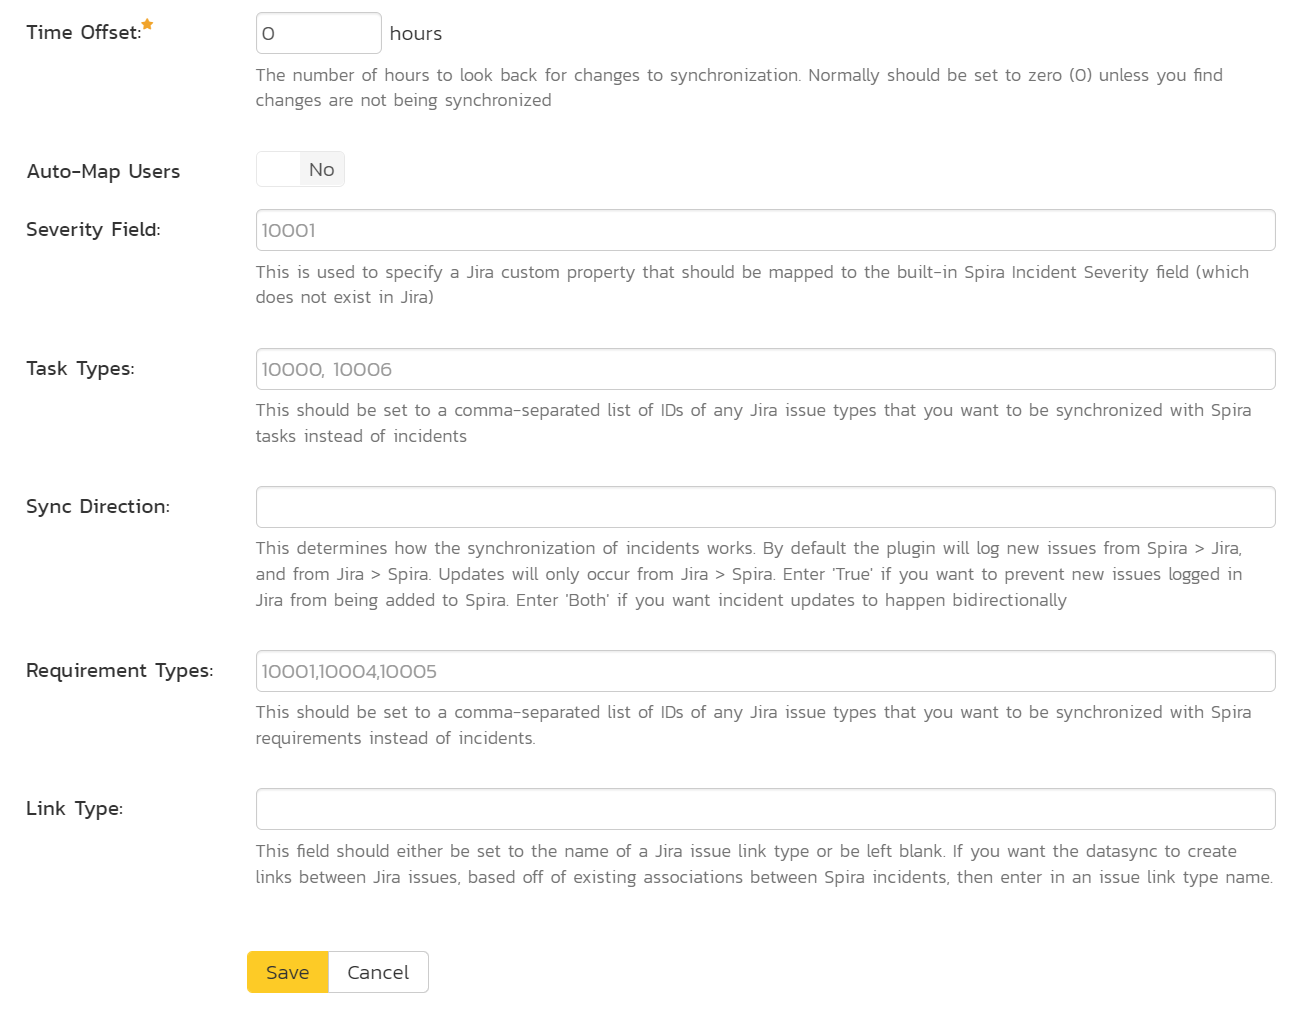
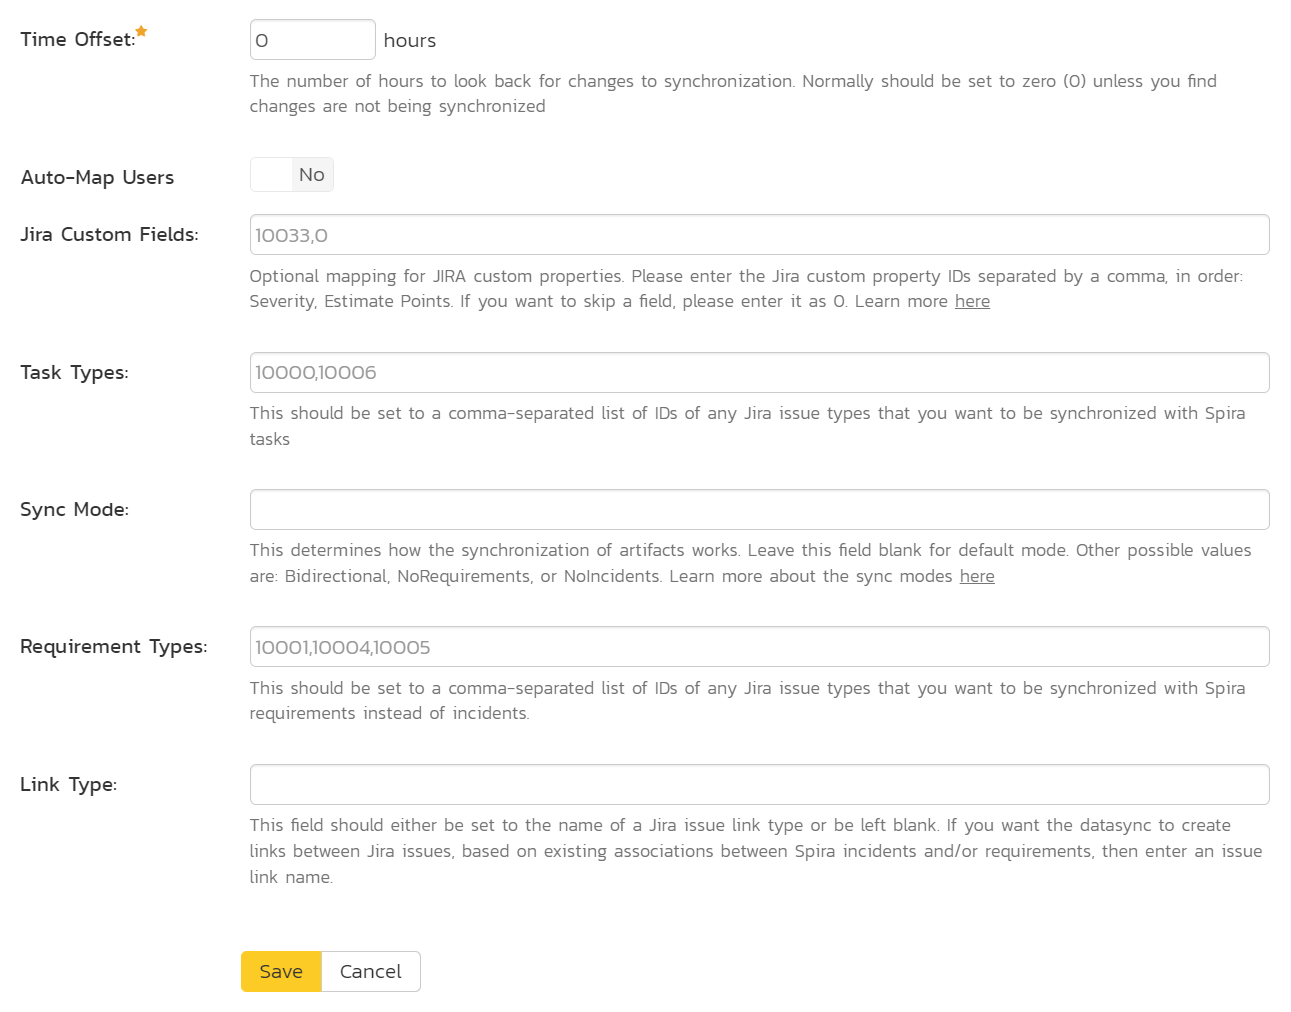
adds release notes and initial changes

diff --git a/docs/stylesheets/spira.css b/docs/stylesheets/spira.css
@@ -27,6 +27,9 @@
   /* Code block color shades */
   --md-code-bg-color:                  hsla(0, 0%, 92.5%, 0.5);
   --md-code-fg-color:                  hsla(200, 18%, 26%, 1);
+
+  /* Inflectra colors*/
+  --yolk:                              #fdcb26;
 }
 
 @media (prefers-color-scheme: dark) {
@@ -64,4 +67,13 @@
 .section-break {
   border-bottom: 2px solid var(--md-default-fg-color);
   padding: 2rem 0 .5rem 0;
+}
+
+.pill {
+  background-color: var(--yolk);
+  border-radius: 0.25rem;
+  font-size: 66%;
+  font-weight: bold;
+  padding: 0.125rem 0.5rem;
+  vertical-align: middle;
 }

diff --git a/docs/About/release-notes-v7.md b/docs/About/release-notes-v7.md
@@ -1,5 +1,76 @@
 # Release Notes for Spira v7
 
+## Version 7.10 (December 2023)
+
+!!! info "Summary"
+
+    - Brings new widgets to the program home page, letting you see meaningful information about capabilities and program milestones <span class="pill">SpiraPlan</span>
+    - Improves program level reporting with the ability to filter and sort standard reports, and show program-specific custom graphs on the program reporting page <span class="pill">SpiraPlan</span>
+    - Adds tagging support to a range of artifacts, including improvements to how you can see and work with tags on the document details page (tags are now supported on documents, requirements, releases, tasks, and incidents - more to come next year)
+    - Let users leverage the power of OpenAI in Spira with a new SpiraApp that auto-generates test cases, requirement steps, or tasks from a requirement
+
+??? success "New Features"
+    - As an incident user, I can add and remove tags to incidents easily from the details page and APIs, to more easily manage product incidents [RQ:4695]
+    - As a task user, I can add and remove tags to tasks easily from the details page and APIs, to more easily manage product tasks [RQ:4694]
+    - As a release user, I can add and remove tags to releases easily from the details page and APIs, to more easily manage product releases [RQ:4693]
+    - As a requirement user, I can add and remove tags to requirements easily from the details page and APIs, to more easily manage product requirements [RQ:4692]
+    - As a document user, I can add and remove tags to documents easily on the document details page, to more easily manage product documents [RQ:2590]
+    
+    * **As a program manager, I can view meaningful charts and summaries about program milestones and capabilities on the program home page, so I can quickly see the state of the program and spot problems**
+
+        - As a capability user, I can view [open vs closed capability and the priorities](../../Spira-User-Manual/Program-Homepage/#capability-open-count) of all open capabilities in an easy to read program home page widget, to help me review current work [RQ:4675]
+        - As a capability user, I can view a [summary of capabilities](../../Spira-User-Manual/Program-Homepage/#capability-summary) in a dedicated program home page widget, to help me review current work [RQ:4677]
+        - As a program milestone user, I can track the progress of [open program milestones](../../Spira-User-Manual/Program-Homepage/#program-milestone-capability-progress) in an easy to read program home page widget, to help me review current work [RQ:4676]
+        - As a program milestone user, I can see a chart of [progress and schedule for program milestones in](../../Spira-User-Manual/Program-Homepage/#program-milestone-completion) a program home page widget, to help me review current work [RQ:4678]
+    
+    * **As a program manager, I want to monitor the progress of program releases, using charts, live widgets, and offline reporting, so I can analyze trends and ensure the program is compliant with any reporting or audit standards**
+
+        - As a program manager, I can view program reporting page widgets by the whole program or by a specific program milestone, so I can better analyze relevant data [RQ:4679]
+        - As a program manager, I can view my program home page by the whole program or by a specific program milestone, so I can better analyze my program [RQ:4449]
+        - As a program report user, I can filter & sort custom program level reports by relevant fields, to better show me the data I need [RQ:4659]
+        - As a report admin, I can specify the workspace a custom graph should appear on the reporting page of, so users can see relevant graphs at the right time [RQ:4664]
+        - As a program report user, I can filter the capability summary report, to help me tailor the report to my needs [RQ:4660]
+        - As a program report user, I can filter the capability details report, to help me tailor the report to my needs [RQ:4661]
+        - As a program report user, I can filter and sort the program milestone summary report, to help me tailor the report to my needs [RQ:4662]
+        - As a program report user, I can filter and sort to include in the program milestone details report, to help me tailor the report to my needs [RQ:4663]
+
+    - Let users leverage the power of OpenAI in Spira with a new SpiraApp that auto-generates test cases, scenarios, or tasks from a requirement [RQ:4705]
+
+??? bug "Bug fixes and enhancements"
+    - Add more space between columns on the Report Edit page so that the Program Milestone report titles don't appear too close [IN:8496]
+    - Create temporary web.config.old and DataSyncService.exe.config files during upgrades using the installer to protect against corruption during upgrades [IN:8371]
+    - Do not automatically add "WHERE R.PROJECT_ID = ${projectId}" when adding queries for custom graphs for tables that do not have a PROJECT_ID column [IN:8534]
+    - Do not automatically add "WHERE R.PROJECT_ID = ${projectId}" when adding queries for custom reports for tables that do not have a PROJECT_ID column [IN:7704]
+    - Fix adding a task to a "Tested" requirement and then completing that task not rolling that requirement's completion up correctly to a parent release [IN:5805]
+    - Fix assigning requirements to child sprints not updating the requirement count of the parent release (without using data tools) [IN:6041]
+    - Fix potential database concurrency issues when upgrading from 5.4 to the latest version [IN:8610]
+    - Fix exporting a test case to a product not recording the exported test steps in the product history [IN:8848]
+    - Fix exporting a test case to a product using same template not exporting its test steps' or linked test steps' custom property values [IN:6286]
+    - Fix inconsistent authorization checks when an admin attempts to preview a custom report [IN:8824]
+    - Fix not always seeing an error message when trying to add a new child capability to an existing child [IN:8355]
+    - Fix product level custom reports with a ${ProjectGroupID} token to show data for the product's program [IN:8935]
+    - Fix projected effort for incidents not being calculated correctly - it should work the same as tasks currently does [IN:5806]
+    - Fix report administrators not being able to preview custom graphs on the report admin pages [IN:7645]
+    - Fix requirement completion from a cancelled release so that it does rollup to any parent release [IN:5760]
+    - Fix test coverage for releases getting out of sync in edge case scenarios when indenting, outdenting, or moving releases [IN:8004]
+    - Fix the default sort order for the 'IsAutoScheduled' column for test sets [IN:8939]
+    - Fix the parent requirement status not moving to "Tested" if all its children have a status of tested [IN:7315]
+    - Fix the report admin graph editing page from throwing an error when a user tries to display the data grid [IN:8646]
+    - Fix the workspace dropdown always showing loading if a user is not a member of any workspaces or on a system with no workspaces [IN:8018]
+    - Fix users not being able to show the "Last Updated" field on the program milestone list page [IN:8621]
+    - Fix users of SpiraTest or SpiraTeam seeing the program-level artifacts menu when viewing a program and never having viewed a product [IN:8644]
+    - Fix widgets a user added to their product reporting page from showing on the program reporting page [IN:8626]
+    - Fully localize the report configuration page's report element names [IN:8508]
+    - Improve performance of association tabs by removing duplicate SQL code from the relevant stored procedure [IN:8436]
+    - Improve the on premise installer to be more fault tolerant when creating the database [IN:8600]
+    - Improve the on premise installer to log out more information from SQL Server to aid in troubleshooting [IN:8612]
+    - Improve usability of the HTML report view by making the report spacing wider and easy to scroll horizontally [IN:8530]
+    - Prevent users from being able to paste a screenshot into rich text fields of program milestones and capabilities [IN:8618]
+    - Remove the tag cloud product home page widget and the document list page tag cloud sidebar graph [IN:8882]
+    - Update JiraDataSync explanation notes in Spira to match updates to the data sync [IN:8942]
+    - Update the field name from "ModifiedDate" to "Last Updated" on the capability list page [IN:8620]
+
+
 ## Version 7.9.0.1 (October 2023)
 
 !!! bug "Bug fixes"
@@ -264,7 +335,7 @@
         - As a task board user, I can change the way a task card looks, so I can see the most meaningful information at that moment [RQ:4411]
         - As a task board user, I can view more information about a task and, if I have permissions, edit the task right from the task board, so I can work more efficiently [RQ:4412]
 
-    * **Administration (SpiraPlan only)**
+    * **Administration <span class="pill">SpiraPlan</span>**
 
         - As an administrator, I want to see a [list of changes made in the system](../../Spira-Administration-Guide/System/#system-history-changes), to be able to audit and review products and schedules more easily. [RQ:4477]
         - As an administrator, I want to see details of a change made in the system, to allow for a more granular inspection of product or enterprise-level changes. [RQ:4478]
@@ -361,12 +432,12 @@
 
             - When organizing the planning board by priority, incident priority names are matched to requirement importance names [RQ:4379]
             - Incident cards can be displayed alongside requirement cards in certain views of the planning board [RQ:4380]
-            - Teams/Tracks Support in Boards (SpiraPlan only) [RQ:2316]
+            - Teams/Tracks Support in Boards <span class="pill">SpiraPlan</span> [RQ:2316]
 
     * **System Administration**
 
         - System admins [can enable or disable](../../Spira-Administration-Guide/System/#general-settings) beta functionality across the application for their users [RQ:4317]
-        - System admins can create and manage [a list of team names](../../Spira-Administration-Guide/System-Users/#view--edit-teams) (SpiraPlan only) [RQ:3689]
+        - System admins can create and manage [a list of team names](../../Spira-Administration-Guide/System-Users/#view--edit-teams) <span class="pill">SpiraPlan</span> [RQ:3689]
         - Product admins can [associate product users to specific teams](../../Spira-Administration-Guide/Product-Users/#team-membership) [RQ:3690]
 
 
@@ -407,7 +478,7 @@
 ## Version 7.2 (October 2022)
 
 !!! info "Summary"
-    Manage products in a whole new way (SpiraPlan only). New system level custom properties and custom lists let program users see and manage your products with custom data and through new dedicated pages and custom report options. You can use these new features for improved Project Portfolio Management, to implement product charts, and much more.
+    Manage products in a whole new way. New system level custom properties and custom lists let program users see and manage your products with custom data and through new dedicated pages and custom report options. You can use these new features for improved Project Portfolio Management, to implement product charts, and much more. <span class="pill">SpiraPlan</span>
 
     Along with existing support for creating and editing dynamic documents inside Spira (including diagrams and documents), the new spreadsheet editor lets you create simple spreadsheets to better organize your teams and track work. You can have multiple sheets, apply formatting to cells, use a wide number of functions, and even import from and export to Excel spreadsheets.
 

diff --git a/docs/Spira-User-Manual/Program-Homepage.md b/docs/Spira-User-Manual/Program-Homepage.md
@@ -4,7 +4,9 @@ When you navigate to a Program from the global navigation bar or from any link t
 
 ![](img/UserProduct_Management_75.png)
 
-This page summarizes all of the information about the program in a "one-stop-shop". The Program Homepage has 3 versions you can quickly switch between. While each of these can be customized as you want, by default they are designed to help different types of user: managers, testers, and developers.
+This page summarizes all of the information about the program in a "one-stop-shop". The Program Homepage has 3 versions you can quickly switch between. While each of these can be customized as you want, by default they are designed to help different types of user: general users, those using capabilities, and QA.
+
+<span class="pill">SpiraPlan</span> You can choose to filter relevant widgets by any open program milestone, or to view widgets by the whole program, by using the "Displaying" dropdown at the top of the page to choose either "All Program Milestones" or a specific open program milestone.
 
 You will see a small "i" in a circle at the top right of each widget. Hovering or clicking on this will show you information about that chart.
 
@@ -24,7 +26,7 @@ Together, these editing options let you change the page to suit your needs. If y
 !!! info "Please note"
     Any changes you make to this page (e.g. editing, moving, closing widgets) will only affect your user and on this particular home page. They do not affect any other user.
 
-By default, the program home page shows the "General" view. The following table shows which widgets are displayed on the different views of the 'Product Home':
+By default, the program home page shows the "General" view. The following table shows which widgets are displayed on the different views of the 'Program Home':
 
 | Widget Name                           | General | Capabilities | Quality |
 | ------------------------------------- | ------- | ------------ | ------- |
@@ -34,6 +36,7 @@ By default, the program home page shows the "General" view. The following table 
 | Product List                          | Y       | Y            | Y       |
 | Products: Completion                  | Y       |              |         |
 | Products: Relative Size               | Y       |              |         |
+| Products: Test Summary                |         |              | Y       |
 | Program Overview                      | Y       | Y            | Y       |
 | Program Milestone Capability Progress |         | Y            |         |
 | Program Milestone Completion          |         | Y            |         |
@@ -166,3 +169,24 @@ This table shows an information-dense, but easy to understand assessment of each
 - the number of tests executed (test runs)
 - the proportion of tests that have passed, failed, blocked, caution or not run
 - the number of open incidents and the priority distribution of them
+
+## Capability Open Count 
+<span class="pill">SpiraPlan</span> This chart shows the proportion of capabilities which are open, as well as the breakdown of all open capabilities in the program by priority. The bar chart's bars are colored to match the configured color of each priority. (Works with the program milestone filter at the top of the page).
+
+
+## Capability Summary
+<span class="pill">SpiraPlan</span> This widget shows a table of capabilities split by their status (on the y axis) and their priority (on the x axis). It provides a count of capabilities with each status/priority combination (for instance, how many capabilities are high priority with a status of to do). Clicking on any of the counts for a given status/priority will open the capability list page filtered to that combination of status and priority. (Works with the program milestone filter at the top of the page).
+
+## Program Milestone Capability Progress
+<span class="pill">SpiraPlan</span> This widget shows a list of all open program milestones. For each program milestone it shows the name (click to see more), number of associated capabilities (click to see more), and its overall progress. (Works with the program milestone filter at the top of the page).
+
+## Program Milestone Completion
+<span class="pill">SpiraPlan</span> This chart shows the proportion of planned days remaining as well as the proportion of all active capabilities that have been completed across currently open milestones in this program. It highlights the data in different colors depending on the proportion of capabilities and days remaining, to give an idea of how well program milestones are sticking to their planned timeframes. (Works with the program milestone filter at the top of the page).
+
+Chart color definitions:
+
+- **Complete**: All requirements included against the release / in releases in this workspace are complete
+- **Ahead of Schedule**: The percentage of completed requirements is greater than the percentage of the schedule that has elapsed
+- **On Schedule**: The percentage of completed requirements is broadly the same as the percentage of the schedule that has elapsed
+- **Behind Schedule**: The percentage of completed requirements is less than the percentage of the schedule that has elapsed
+- **Overdue**: The workspace or any of its children (if relevant) is running late. For a workspace itself to be late, its requirements are not yet all complete, but its end date has already passed

diff --git a/docs/Spira-User-Manual/Application-Wide.md b/docs/Spira-User-Manual/Application-Wide.md
@@ -79,7 +79,7 @@ You can export the following artifacts from the current product to any other pro
 - tasks
 - test cases
 
-The artifacts will be exported from the current product to the destination product. Any file attachments will also be copied to the destination product. If the destination product uses the same product template then standard and custom fields will be copied over in full - but this will not necessarily be possible if the destination product uses a different product (the system will try and match up fields as best it can).
+The artifacts will be exported from the current product to the destination product. Any file attachments will also be copied to the destination product. If the destination product uses the same product template then standard and custom fields will be copied over in full - but this will not necessarily be possible if the destination product uses a different product template (the system will try and match up fields as best it can).
 
 *Note: when exporting a requirement that has children, the requirement itself and all of its children are exported to the destination product.*
 
@@ -423,6 +423,8 @@ From any rich text editor for a product artifact (including custom properties an
 
 In addition, where possible and relevant, when you @ mention someone, that person will be added as a [follower](#followers) of the current artifact. Please note that removing a mention will not remove that person as a follower of the artifact.
 
+### Tags
+Many artifacts have tag support. You can use tags to 
 
 ## Boards
 Boards allow users to see artifacts visually in columns and/or rows, and move cards around to progress them along their workflow. This is like moving sticky notes around on a white board. It is a very visual way of working with your artifacts.

diff --git a/docs/Spira-User-Manual/Product-Homepage.md b/docs/Spira-User-Manual/Product-Homepage.md
@@ -221,15 +221,6 @@ This widget displays a list of the most recent builds that have been performed a
 For each build it will display whether the build succeeded or failed, the date the build occurred and the name of the build together with a hyperlink to the [build details](../Release-Management/#build-details). Note: If no release or sprint is selected then the widget will not display any data.
 
 
-## Tag Cloud
-
-This widget lets you see the list of document tags being used in the product:
-
-![](img/UserProduct_Management_69.png)
-
-The size of the tag name indicates the relative frequency of its usage in the product. Clicking on a document tag will open up the [Document List](../Document-Management/#document-list) page with the filter set to the tag you clicked on. This will display a list of related documents that have been tagged with the same tag name.
-
-
 ## Test Case Cumulative Progress
 
 This section consists of a chart that displays the last 30 days of test case executions cumulatively. That means it will display for each day, the total number of test cases executed plus the status from any previous days that have not been changed. Any test cases not executed up to that point will be considered "not run" and will appear in the "not run" category. For example, if you have 10 test cases created on day 1 you will see 10 test cases "not run" on day 1. On day 2, you execute 5 test cases and fail them all, you will now see 5 test cases failed and 5 not run. On day 3, you execute 3 of the previous 5 test cases and pass them. You will now see 3 test cases passed, 2 failed and 5 not run.

diff --git a/docs/Spira-User-Manual/Document-Management.md b/docs/Spira-User-Manual/Document-Management.md
@@ -20,11 +20,10 @@ When you choose the Documents artifact from the global navigation bar, you open 
 
 ![](img/Document_Management_319.png)
 
-This screen is made up of three sections:
+This screen is made up of two sections:
 
-1. The top left displays a hierarchical list of the document folders. You can expand or collapse a folder to see its subfolders. Click on a folder to show its contents in the main part of the screen.
-2. The bottom left shows the "Tag Cloud". This lists all the tags associated with documents in the product. The size of the font is proportional to the number of documents associated with the tag. Clicking on a tag filters the list of documents to show items that contain the selected tag.
-3. The main right-hand section displays a list of all the documents contained within the currently selected folder. This list can be filtered and sorted, and you can choose how many rows of documents to display on the page at one time.
+1. The left displays a hierarchical list of the document folders. You can expand or collapse a folder to see its subfolders. Click on a folder to show its contents in the main part of the screen.
+2. The main right-hand section displays a list of all the documents contained within the currently selected folder. This list can be filtered and sorted, and you can choose how many rows of documents to display on the page at one time.
 
 The main toolbar has operations you can perform on the document list or selected documents. You can:
 

diff --git a/docs/index.md b/docs/index.md
@@ -2,7 +2,7 @@
 # Spira Platform Documentation
 
 !!! success "Documentation version"
-    **This site was last updated for version 7.9.0.1 of SpiraTest, SpiraTeam, and SpiraPlan**
+    **This site was last updated for version 7.10.0.0 of SpiraTest, SpiraTeam, and SpiraPlan**
 
     **Current available beta features**
 
